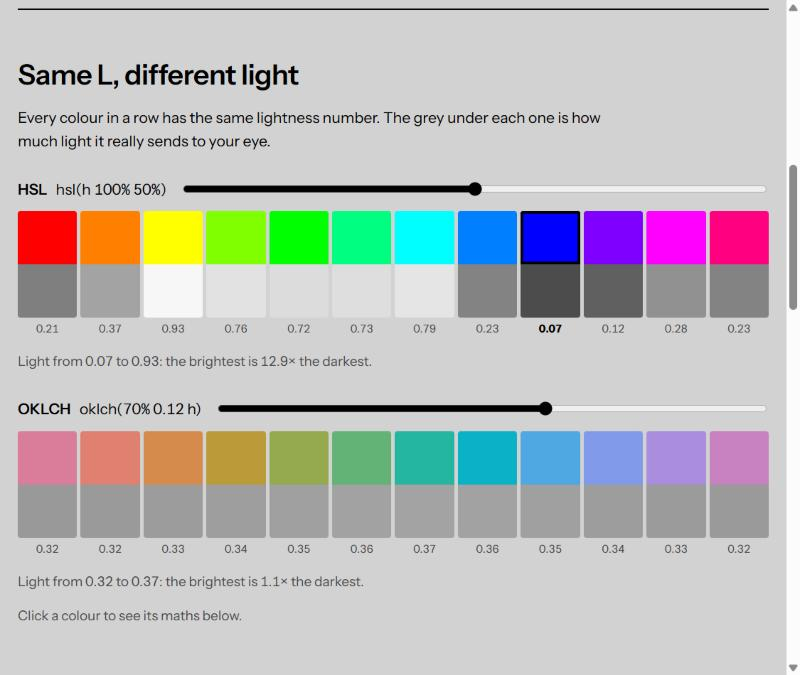
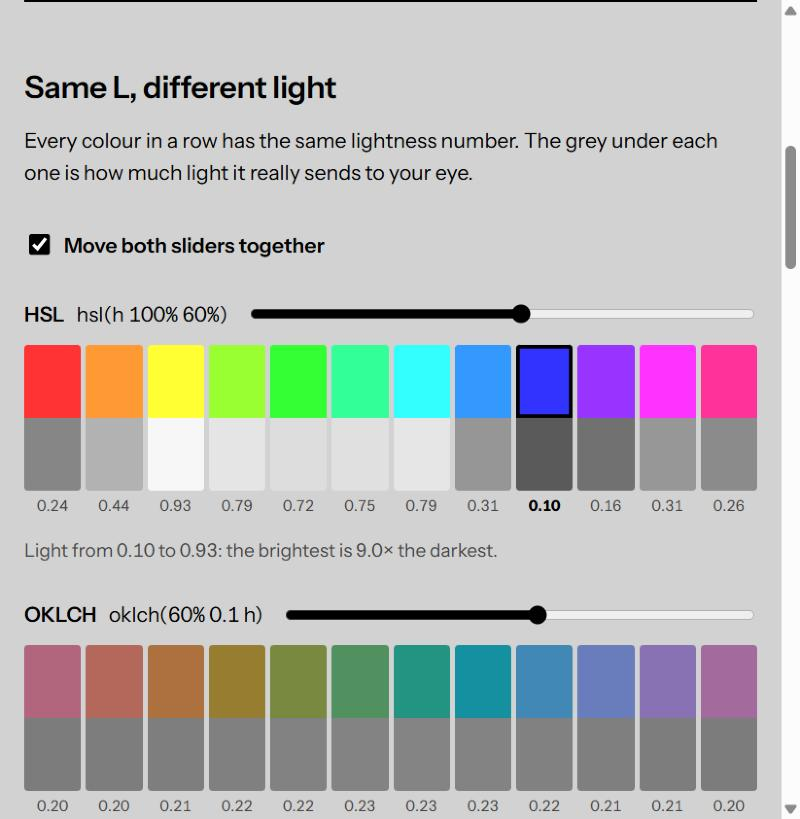
Link the HSL and OKLCH sliders, with a checkbox to move them apart

diff --git a/js/main.js b/js/main.js
@@ -1,8 +1,7 @@
-import { hslToRgb, oklchToRgb, luminance, asGrey, rgbToHex, toLinear, WEIGHTS, contrast, hexToRgb, simulate } from "./colour.js";
+import { hslToRgb, oklchToRgb, inGamut, luminance, asGrey, rgbToHex, toLinear, WEIGHTS, contrast, hexToRgb, simulate } from "./colour.js";
 
 // 12 hues around the colour wheel, one every 30°
 const HUES = [0, 30, 60, 90, 120, 150, 180, 210, 240, 270, 300, 330];
-const OK_CHROMA = 0.12; // low enough that every hue fits on a screen
 
 // The game: pairs of hues, all hsl(h 100% 50%). They get harder as the
 // difference in light gets smaller.
@@ -16,8 +15,9 @@ const PAIRS = [
 
 const state = {
   game: { round: 0, guess: null, score: 0 }, // guess: 0 or 1, the tile clicked
-  hslL: 50,  // HSL lightness, in %
-  okL: 70,   // OKLCH lightness, in %
+  hslL: 60,  // HSL lightness, in %
+  okL: 60,   // OKLCH lightness, in %
+  linked: true, // the two sliders move together
   picked: { model: "hsl", hue: 240 }, // the colour shown in "Under the hood"
   text: "#ffffff", // the contrast checker
   bg: "#ffff00",
@@ -81,10 +81,19 @@ function drawGame() {
   $("#round").textContent = finished ? "" : `Pair ${round + 1} of ${PAIRS.length}`;
 }
 
+// The OKLCH row's chroma: the most colourful one at which all 12 hues still fit
+// on a screen. Lowering the chroma keeps every hue as it is; clamping wouldn't.
+function rowChroma() {
+  const l = state.okL / 100;
+  let c = 0.15;
+  while (!HUES.every((hue) => inGamut(l, c, hue))) c -= 0.005;
+  return Number(c.toFixed(3));
+}
+
 // The colour of one swatch, from the row it's in and its hue
 function colourOf(model, hue) {
   if (model === "hsl") return hslToRgb(hue, 1, state.hslL / 100);
-  return oklchToRgb(state.okL / 100, OK_CHROMA, hue);
+  return oklchToRgb(state.okL / 100, rowChroma(), hue);
 }
 
 function swatch(model, hue) {
@@ -121,8 +130,13 @@ function spread(model) {
 }
 
 function drawRows() {
+  // when the sliders are linked, moving one moves the other: draw both from state
+  $("#hsl-l").value = state.hslL;
+  $("#ok-l").value = state.okL;
+  $("#link-sliders").checked = state.linked;
   $("#hsl-l-value").textContent = `${state.hslL}%`;
   $("#ok-l-value").textContent = `${state.okL}%`;
+  $("#ok-c-value").textContent = rowChroma();
   $("#hsl-row").replaceChildren(...HUES.map((hue) => swatch("hsl", hue)));
   $("#ok-row").replaceChildren(...HUES.map((hue) => swatch("oklch", hue)));
   $("#hsl-spread").textContent = spread("hsl");
@@ -139,7 +153,7 @@ function drawHood() {
   $("#hood-chip").style.background = paint(rgb);
   $("#hood-name").textContent = model === "hsl"
     ? `hsl(${hue} 100% ${state.hslL}%) = ${rgbToHex(rgb)}`
-    : `oklch(${state.okL}% ${OK_CHROMA} ${hue}) = ${rgbToHex(rgb)}`;
+    : `oklch(${state.okL}% ${rowChroma()} ${hue}) = ${rgbToHex(rgb)}`;
 
   const steps = [
     ["Screen value, 0–255", rgb.map((c) => Math.round(c * 255))],
@@ -222,13 +236,19 @@ $("#next").addEventListener("click", () => {
   render();
 });
 
-$("#hsl-l").addEventListener("input", (event) => {
-  state.hslL = Number(event.target.value);
+// Both rows get the same lightness number while the sliders are linked
+function setLightness(model, value) {
+  if (model === "hsl" || state.linked) state.hslL = value;
+  if (model === "oklch" || state.linked) state.okL = value;
   render();
-});
+}
 
-$("#ok-l").addEventListener("input", (event) => {
-  state.okL = Number(event.target.value);
+$("#hsl-l").addEventListener("input", (event) => setLightness("hsl", Number(event.target.value)));
+$("#ok-l").addEventListener("input", (event) => setLightness("oklch", Number(event.target.value)));
+
+$("#link-sliders").addEventListener("change", (event) => {
+  state.linked = event.target.checked;
+  if (state.linked) state.okL = state.hslL; // linking again: OKLCH catches up with HSL
   render();
 });
 

diff --git a/index.html b/index.html
@@ -39,21 +39,23 @@
       <h2>Same L, different light</h2>
       <p>Every colour in a row has the same lightness number. The grey under each one is how much light it really sends to your eye.</p>
 
+      <label class="link"><input type="checkbox" id="link-sliders" checked> Move both sliders together</label>
+
       <div class="row-head">
         <label for="hsl-l">HSL <code>hsl(h 100% <output id="hsl-l-value"></output>)</code></label>
-        <input id="hsl-l" type="range" min="10" max="90" value="50">
+        <input id="hsl-l" type="range" min="25" max="90" value="60">
       </div>
       <ul class="swatches" id="hsl-row"></ul>
       <p class="spread" id="hsl-spread"></p>
 
       <div class="row-head">
-        <label for="ok-l">OKLCH <code>oklch(<output id="ok-l-value"></output> 0.12 h)</code></label>
-        <input id="ok-l" type="range" min="40" max="90" value="70">
+        <label for="ok-l">OKLCH <code>oklch(<output id="ok-l-value"></output> <output id="ok-c-value"></output> h)</code></label>
+        <input id="ok-l" type="range" min="25" max="90" value="60">
       </div>
       <ul class="swatches" id="ok-row"></ul>
       <p class="spread" id="ok-spread"></p>
 
-      <p class="hint">Click a colour to see its maths below.</p>
+      <p class="hint">The chroma changes with the lightness: it's the most colourful one at which all 12 hues still fit on a screen. Click a colour to see its maths below.</p>
     </section>
 
     <section id="hood">

diff --git a/css/style.css b/css/style.css
@@ -128,6 +128,8 @@ p { max-width: 62ch; }
 .hint, .spread { color: var(--muted); font-size: 0.95rem; }
 
 /* the two rows */
+.link { display: inline-flex; align-items: center; gap: 0.5rem; margin-top: 1rem; font-weight: 600; cursor: pointer; }
+.link input { width: 1.1rem; height: 1.1rem; accent-color: var(--ink); }
 .row-head {
   display: flex;
   flex-wrap: wrap;

diff --git a/README.md b/README.md
@@ -21,7 +21,7 @@ more light** than blue.
 | **Can you read it?** | A WCAG contrast checker. White text on HSL yellow: 1.07 : 1. On HSL blue: 8.59 : 1. Same lightness. |
 | **Not everyone sees the same colours** | Repaints the whole page as someone with protanopia, deuteranopia, tritanopia or no colour vision would see it. |
 
-![The two rows: HSL greys jump from 0.07 to 0.93, OKLCH greys stay between 0.32 and 0.37](docs/rows.jpg)
+![Both sliders at 60%: HSL greys jump from 0.10 to 0.93, OKLCH greys stay between 0.20 and 0.23](docs/rows.jpg)
 
 ## Why it happens
 
